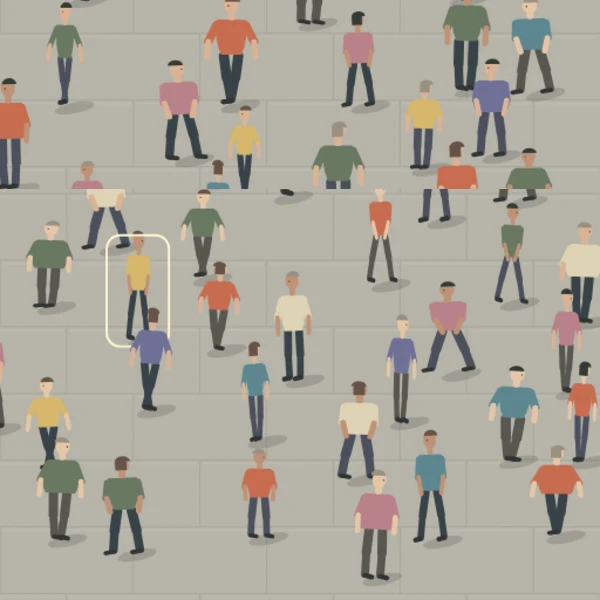
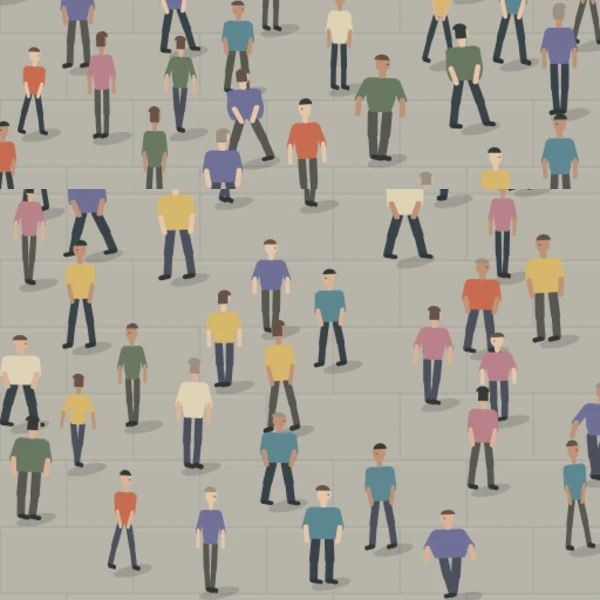
群衆を100人に増やして残り時間の表示を削除

diff --git a/games/_tools/tests/shuto.js b/games/_tools/tests/shuto.js
@@ -5,7 +5,7 @@ for(const shape of [[375,812],[700,700],[500,1600]]){
  for(let round=0;round<9;round++){
   g.probe.reset();g.tap(270,100);assert.equal(g.probe.now().state,'play');
   assert(g.until(()=>g.probe.now().elapsed>=0,1200),'手刀が出る');
-  let s=g.probe.now();assert.equal(s.people.length,60,'群衆は60人');assert(Math.abs(s.people[s.attacker].x-s.people[s.victim].x)<88,'近くの相手に手刀');
+  let s=g.probe.now();assert.equal(s.people.length,100,'群衆は100人');assert(Math.abs(s.people[s.attacker].x-s.people[s.victim].x)<88,'近くの相手に手刀');
   for(let i=0;i<s.people.length;i++)for(let j=i+1;j<s.people.length;j++){if(i===s.victim||j===s.victim)continue;assert(Math.hypot(s.people[i].x-s.people[j].x,s.people[i].y-s.people[j].y)>=63,'押す間隔');}
   if(round%3===0){g.step(179);assert.equal(g.probe.now().state,'play');g.step(1);assert.equal(g.probe.now().outcome,'miss');assert.equal(g.probe.now().elapsed,3);assert.equal(g.probe.now().resultText,'見逃した');}
   else if(round%3===1){g.step(120);s=g.probe.now();const p=s.people[s.attacker];g.tap(p.x,p.y);assert.equal(g.probe.now().outcome,'caught');assert.equal(g.probe.now().resultText,'見逃さなかった（2.00秒）');}

diff --git a/games/_shuto/index.html b/games/_shuto/index.html
@@ -131,7 +131,7 @@
   var S = { INTRO: "intro", PLAY: "play", RESULT: "result" };
   var state, score, T, held, keyMode = false;
 
-  var CROWD_SIZE=60, STRIKE_SECONDS=1/30;
+  var CROWD_SIZE=100, STRIKE_SECONDS=1/30;
   var people=[], attacker=-1, victim=-1, attackAt=0, elapsed=-1, outcome='', selected=0;
   var clothes=['#c76c50','#5d8790','#d5b76b','#697761','#6f7096','#b88188','#ded3b4'];
   var crowdHeight=960;
@@ -153,6 +153,7 @@
       var p=makePerson(i),tries=0;
       do{p.x=15+Math.random()*510;p.y=40+Math.random()*(H-55);tries++;}
       while(tries<1000&&people.some(function(q){return Math.hypot(p.x-q.x,p.y-q.y)<66;}));
+      if(tries>=1000)enter(p);
       people.push(p);
     }
   }
@@ -381,10 +382,6 @@
 
     drawTown();
     people.slice().sort(function(a,b){return a.y-b.y;}).forEach(drawPerson);
-    if(elapsed>=0&&state===S.PLAY){
-      ctx.fillStyle='#283e43';ctx.fillRect(38,36,464,5);
-      ctx.fillStyle='#f7cc71';ctx.fillRect(38,36,464*(1-elapsed/3),5);
-    }
 
     if (state === S.RESULT) drawResult();
   }
